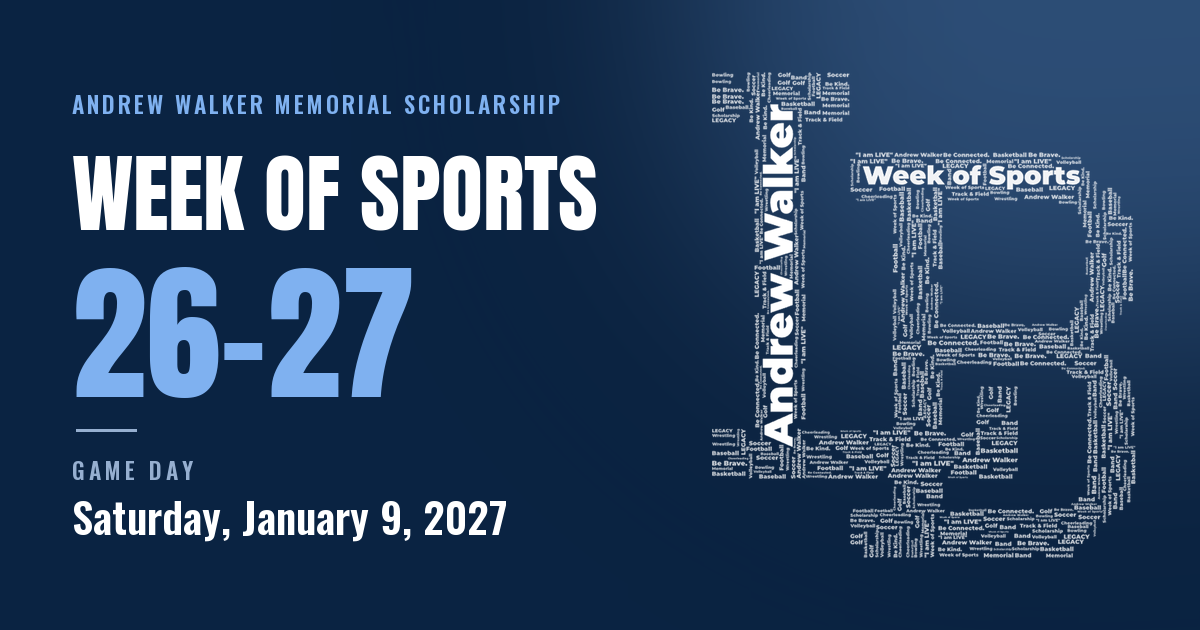
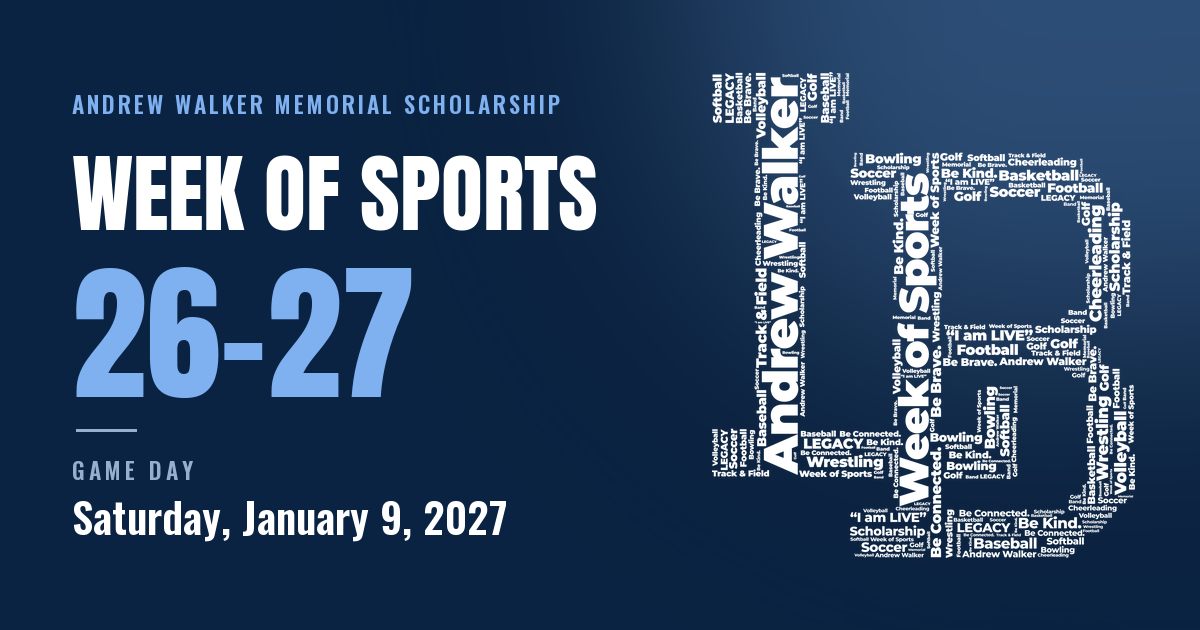
Use the newest LB mark everywhere, and version the asset URLs
The mark on the site was built from "Andrew Walker Memorial Scholarship 3",
but a newer word-cloud export ("New Design Transparent.png", confirmed to be
the same artwork as "New Design SVG.svg") has since replaced it. The two are
about 30% different pixel-for-pixel: the new one uses larger, more legible
words. Rebuilt all seven places the mark appears from that master:

  logo-lb.png    452x520    nav corner + footer
  gear-lb.png    900x1034   homepage "This year's gear"
  favicon-32/180/192/512    white mark on navy (512 stays inside the
                            maskable safe zone)
  share-card.png            social preview -- the old mark was erased and
                            the new one dropped into the same box, so the
                            layout and the glow behind it are untouched

Filenames are unchanged, so anyone who already loaded the site could keep
being served the old bytes: GitHub Pages sends a fixed max-age=600 that we
cannot configure, and browsers hold favicons far longer than that. Every
reference now carries ?v=2, which makes it a new URL that no cache can
answer from. The service worker cache is bumped to wos-v2 for the same
reason, so installed phones drop their old copies on activate.

Changed region(s): [[0.5858, 0.0905, 0.9558, 0.9048]]

diff --git a/index.html b/index.html
@@ -25,19 +25,19 @@ if(window.IntersectionObserver&&!(window.matchMedia&&window.matchMedia('(prefers
 <meta property="og:title" content="Week of Sports 26-27 · Andrew Walker Memorial Scholarship">
 <meta property="og:description" content="Game day is Saturday, January 9, 2027. Join the class-vs-class donation challenge, grab this year's gear, and support the Andrew Walker Memorial Scholarship.">
 <meta property="og:url" content="https://weekofsports.com/">
-<meta property="og:image" content="https://weekofsports.com/assets/share-card.png">
+<meta property="og:image" content="https://weekofsports.com/assets/share-card.png?v=2">
 <meta property="og:image:width" content="1200">
 <meta property="og:image:height" content="630">
 <meta name="twitter:card" content="summary_large_image">
-<meta name="twitter:image" content="https://weekofsports.com/assets/share-card.png">
+<meta name="twitter:image" content="https://weekofsports.com/assets/share-card.png?v=2">
 <link rel="preconnect" href="https://fonts.googleapis.com">
 <link rel="preconnect" href="https://fonts.gstatic.com" crossorigin>
 <link rel="preconnect" href="https://www.youtube.com">
 <link rel="preconnect" href="https://i.ytimg.com">
 <link href="https://fonts.googleapis.com/css2?family=Anton&family=Oswald:wght@500;600;700&family=Inter:wght@400;500;600;700&display=swap" rel="stylesheet">
-<link rel="icon" type="image/png" sizes="32x32" href="/assets/favicon-32.png">
-<link rel="icon" type="image/png" sizes="192x192" href="/assets/favicon-192.png">
-<link rel="apple-touch-icon" href="/assets/favicon-180.png">
+<link rel="icon" type="image/png" sizes="32x32" href="/assets/favicon-32.png?v=2">
+<link rel="icon" type="image/png" sizes="192x192" href="/assets/favicon-192.png?v=2">
+<link rel="apple-touch-icon" href="/assets/favicon-180.png?v=2">
 <link rel="manifest" href="/manifest.webmanifest">
 <meta name="theme-color" content="#0a2342">
 <meta name="apple-mobile-web-app-capable" content="yes">

diff --git a/raffle-baskets/index.html b/raffle-baskets/index.html
@@ -20,17 +20,17 @@ if(window.IntersectionObserver&&!(window.matchMedia&&window.matchMedia('(prefers
 <meta property="og:title" content="Raffle Baskets · Week of Sports 26-27">
 <meta property="og:description" content="Enter to win this year's raffle baskets and support the Andrew Walker Memorial Scholarship.">
 <meta property="og:url" content="https://weekofsports.com/raffle-baskets/">
-<meta property="og:image" content="https://weekofsports.com/assets/share-card.png">
+<meta property="og:image" content="https://weekofsports.com/assets/share-card.png?v=2">
 <meta property="og:image:width" content="1200">
 <meta property="og:image:height" content="630">
 <meta name="twitter:card" content="summary_large_image">
-<meta name="twitter:image" content="https://weekofsports.com/assets/share-card.png">
+<meta name="twitter:image" content="https://weekofsports.com/assets/share-card.png?v=2">
 <link rel="preconnect" href="https://fonts.googleapis.com">
 <link rel="preconnect" href="https://fonts.gstatic.com" crossorigin>
 <link href="https://fonts.googleapis.com/css2?family=Anton&family=Oswald:wght@500;600;700&family=Inter:wght@400;500;600;700&display=swap" rel="stylesheet">
-<link rel="icon" type="image/png" sizes="32x32" href="/assets/favicon-32.png">
-<link rel="icon" type="image/png" sizes="192x192" href="/assets/favicon-192.png">
-<link rel="apple-touch-icon" href="/assets/favicon-180.png">
+<link rel="icon" type="image/png" sizes="32x32" href="/assets/favicon-32.png?v=2">
+<link rel="icon" type="image/png" sizes="192x192" href="/assets/favicon-192.png?v=2">
+<link rel="apple-touch-icon" href="/assets/favicon-180.png?v=2">
 <link rel="manifest" href="/manifest.webmanifest">
 <meta name="theme-color" content="#0a2342">
 <meta name="apple-mobile-web-app-capable" content="yes">

diff --git a/gear/index.html b/gear/index.html
@@ -10,17 +10,17 @@
 <meta property="og:title" content="Order Gear · Week of Sports 26-27">
 <meta property="og:description" content="Shop this year's Week of Sports gear — shirts, hoodies, hats, and more. Every purchase supports the Andrew Walker Memorial Scholarship.">
 <meta property="og:url" content="https://weekofsports.com/gear/">
-<meta property="og:image" content="https://weekofsports.com/assets/share-card.png">
+<meta property="og:image" content="https://weekofsports.com/assets/share-card.png?v=2">
 <meta property="og:image:width" content="1200">
 <meta property="og:image:height" content="630">
 <meta name="twitter:card" content="summary_large_image">
-<meta name="twitter:image" content="https://weekofsports.com/assets/share-card.png">
+<meta name="twitter:image" content="https://weekofsports.com/assets/share-card.png?v=2">
 <link rel="preconnect" href="https://fonts.googleapis.com">
 <link rel="preconnect" href="https://fonts.gstatic.com" crossorigin>
 <link href="https://fonts.googleapis.com/css2?family=Anton&family=Oswald:wght@500;600;700&family=Inter:wght@400;500;600;700&display=swap" rel="stylesheet">
-<link rel="icon" type="image/png" sizes="32x32" href="/assets/favicon-32.png">
-<link rel="icon" type="image/png" sizes="192x192" href="/assets/favicon-192.png">
-<link rel="apple-touch-icon" href="/assets/favicon-180.png">
+<link rel="icon" type="image/png" sizes="32x32" href="/assets/favicon-32.png?v=2">
+<link rel="icon" type="image/png" sizes="192x192" href="/assets/favicon-192.png?v=2">
+<link rel="apple-touch-icon" href="/assets/favicon-180.png?v=2">
 <link rel="manifest" href="/manifest.webmanifest">
 <meta name="theme-color" content="#0a2342">
 <meta name="apple-mobile-web-app-capable" content="yes">

diff --git a/spirit-week-themes/index.html b/spirit-week-themes/index.html
@@ -10,17 +10,17 @@
 <meta property="og:title" content="Spirit Week Themes · Week of Sports 26-27">
 <meta property="og:description" content="A new dress-up theme every day leading up to game day, Saturday, January 9, 2027.">
 <meta property="og:url" content="https://weekofsports.com/spirit-week-themes/">
-<meta property="og:image" content="https://weekofsports.com/assets/share-card.png">
+<meta property="og:image" content="https://weekofsports.com/assets/share-card.png?v=2">
 <meta property="og:image:width" content="1200">
 <meta property="og:image:height" content="630">
 <meta name="twitter:card" content="summary_large_image">
-<meta name="twitter:image" content="https://weekofsports.com/assets/share-card.png">
+<meta name="twitter:image" content="https://weekofsports.com/assets/share-card.png?v=2">
 <link rel="preconnect" href="https://fonts.googleapis.com">
 <link rel="preconnect" href="https://fonts.gstatic.com" crossorigin>
 <link href="https://fonts.googleapis.com/css2?family=Anton&family=Oswald:wght@500;600;700&family=Inter:wght@400;500;600;700&display=swap" rel="stylesheet">
-<link rel="icon" type="image/png" sizes="32x32" href="/assets/favicon-32.png">
-<link rel="icon" type="image/png" sizes="192x192" href="/assets/favicon-192.png">
-<link rel="apple-touch-icon" href="/assets/favicon-180.png">
+<link rel="icon" type="image/png" sizes="32x32" href="/assets/favicon-32.png?v=2">
+<link rel="icon" type="image/png" sizes="192x192" href="/assets/favicon-192.png?v=2">
+<link rel="apple-touch-icon" href="/assets/favicon-180.png?v=2">
 <link rel="manifest" href="/manifest.webmanifest">
 <meta name="theme-color" content="#0a2342">
 <meta name="apple-mobile-web-app-capable" content="yes">

diff --git a/fundraising-video/index.html b/fundraising-video/index.html
@@ -10,17 +10,17 @@
 <meta property="og:title" content="Fundraising Video · Week of Sports 26-27">
 <meta property="og:description" content="Hear why Week of Sports exists and how your support keeps Andrew's legacy alive.">
 <meta property="og:url" content="https://weekofsports.com/fundraising-video/">
-<meta property="og:image" content="https://weekofsports.com/assets/share-card.png">
+<meta property="og:image" content="https://weekofsports.com/assets/share-card.png?v=2">
 <meta property="og:image:width" content="1200">
 <meta property="og:image:height" content="630">
 <meta name="twitter:card" content="summary_large_image">
-<meta name="twitter:image" content="https://weekofsports.com/assets/share-card.png">
+<meta name="twitter:image" content="https://weekofsports.com/assets/share-card.png?v=2">
 <link rel="preconnect" href="https://fonts.googleapis.com">
 <link rel="preconnect" href="https://fonts.gstatic.com" crossorigin>
 <link href="https://fonts.googleapis.com/css2?family=Anton&family=Oswald:wght@500;600;700&family=Inter:wght@400;500;600;700&display=swap" rel="stylesheet">
-<link rel="icon" type="image/png" sizes="32x32" href="/assets/favicon-32.png">
-<link rel="icon" type="image/png" sizes="192x192" href="/assets/favicon-192.png">
-<link rel="apple-touch-icon" href="/assets/favicon-180.png">
+<link rel="icon" type="image/png" sizes="32x32" href="/assets/favicon-32.png?v=2">
+<link rel="icon" type="image/png" sizes="192x192" href="/assets/favicon-192.png?v=2">
+<link rel="apple-touch-icon" href="/assets/favicon-180.png?v=2">
 <link rel="manifest" href="/manifest.webmanifest">
 <meta name="theme-color" content="#0a2342">
 <meta name="apple-mobile-web-app-capable" content="yes">

diff --git a/config.js b/config.js
@@ -137,9 +137,13 @@ window.WOS = {
   volunteerUrl:  "https://docs.google.com/spreadsheets/d/1GHON5g2QmFFZ7DXIFw4bid8InBzlzmE4Jw2GdTTLgUg/edit?usp=sharing",  /* real volunteer sign-up sheet */
   volunteerText: "Volunteers are crucial to the success of the event — from running raffle tables to working the doors. Everyone gets a role that matters, and hours count toward NHS and other service requirements.",
 
-  /* ---------- assets (swap these each year — paths are site-root absolute) ---------- */
-  logo:          "/assets/logo-lb.png",   /* LB word-cloud badge (Andrew Walker / Week of Sports) */
-  gearImage:     "/assets/gear-lb.png",   /* big image in the homepage "This year's gear" section */
+  /* ---------- assets (swap these each year — paths are site-root absolute) ----------
+     The "?v=2" on the end is a version tag, not part of the file name. If you ever
+     replace one of these images but keep the same file name, add 1 to its number
+     (?v=3, ?v=4 …). That is what tells phones and browsers to fetch the new picture
+     instead of showing the old one they already saved. */
+  logo:          "/assets/logo-lb.png?v=2",   /* LB word-cloud badge (Andrew Walker / Week of Sports) */
+  gearImage:     "/assets/gear-lb.png?v=2",   /* big image in the homepage "This year's gear" section */
   crest:         "/assets/crest.png",
   shirt:         "/assets/shirt.png",
   heroYouTubeId: "-3iifoMWy7U",            /* fundraising video — plays muted as the looping hero background */

diff --git a/qr/index.html b/qr/index.html
@@ -7,9 +7,9 @@
 <link rel="preconnect" href="https://fonts.googleapis.com">
 <link rel="preconnect" href="https://fonts.gstatic.com" crossorigin>
 <link href="https://fonts.googleapis.com/css2?family=Anton&family=Oswald:wght@500;600;700&family=Inter:wght@400;500;600;700&display=swap" rel="stylesheet">
-<link rel="icon" type="image/png" sizes="32x32" href="/assets/favicon-32.png">
-<link rel="icon" type="image/png" sizes="192x192" href="/assets/favicon-192.png">
-<link rel="apple-touch-icon" href="/assets/favicon-180.png">
+<link rel="icon" type="image/png" sizes="32x32" href="/assets/favicon-32.png?v=2">
+<link rel="icon" type="image/png" sizes="192x192" href="/assets/favicon-192.png?v=2">
+<link rel="apple-touch-icon" href="/assets/favicon-180.png?v=2">
 <link rel="manifest" href="/manifest.webmanifest">
 <meta name="theme-color" content="#0a2342">
 <style>

diff --git a/sw.js b/sw.js
@@ -3,11 +3,13 @@
    Strategy is NETWORK-FIRST on purpose: the site updates often (leaderboard,
    config, content), so we always try the network and only fall back to the
    cached copy when the device is offline. This avoids serving stale pages. */
-var CACHE = 'wos-v1';
+/* Bump this whenever an asset is replaced under the same filename: the old
+   cache is deleted on activate, so installed phones can't keep serving it. */
+var CACHE = 'wos-v2';
 var CORE = [
   '/', '/index.html', '/config.js',
   '/assets/site.css', '/assets/page.js',
-  '/assets/favicon-192.png', '/assets/favicon-512.png'
+  '/assets/favicon-192.png?v=2', '/assets/favicon-512.png?v=2'
 ];
 
 self.addEventListener('install', function (e) {
